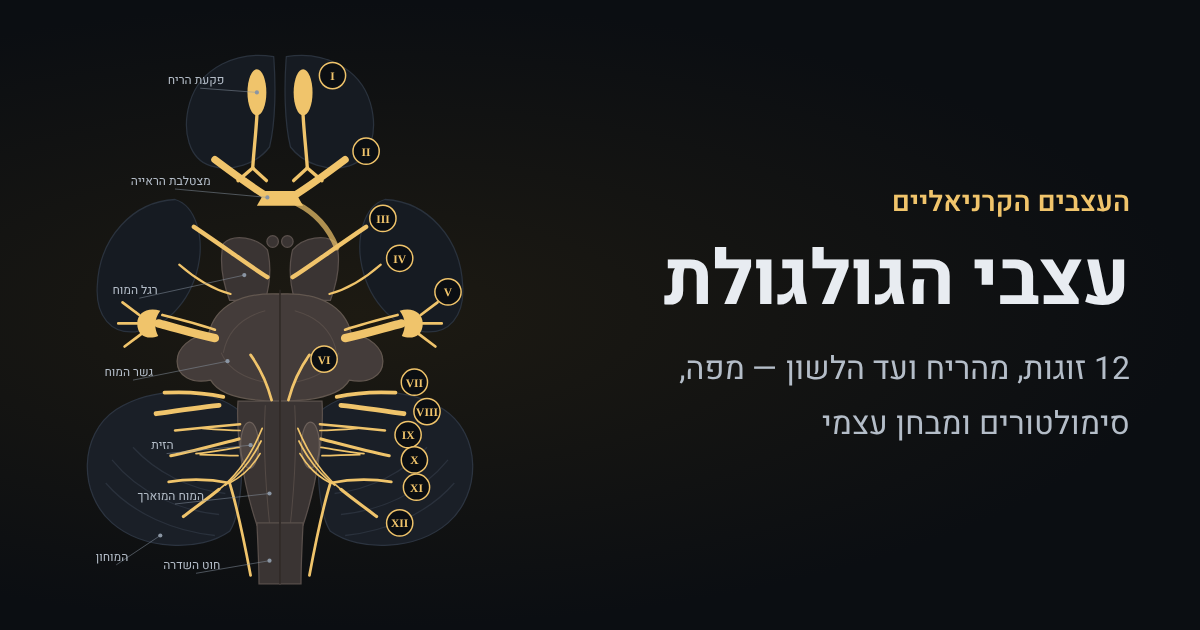
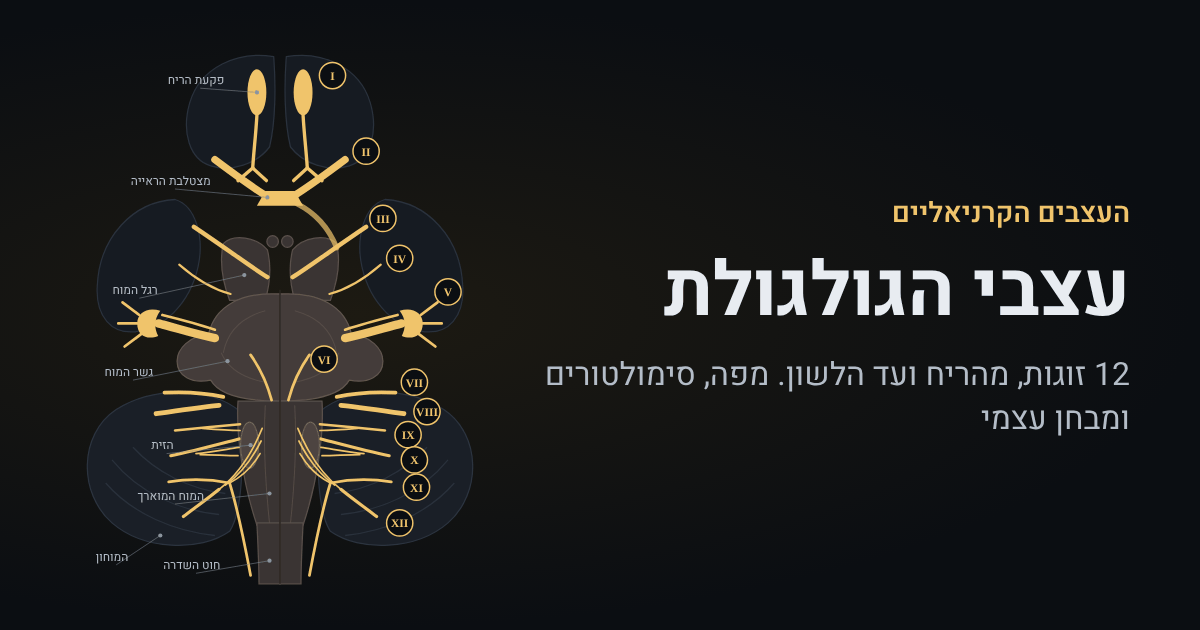
לפני פרסום: טקסט סטטי במעבדה, נתונים מובנים (JSON-LD), תמונת שיתוף לכל עצב; שם אחיד לעצב התת-לשוני
Claude-Session: https://claude.ai/code/session_01WMETiPbN26pKEWaQKbEibQ

Changed region(s): [[0.555, 0.3921, 0.9558, 0.5127], [0.4625, 0.573, 0.9558, 0.6937], [0.74, 0.3016, 0.9558, 0.3619]]

diff --git a/vite.config.js b/vite.config.js
@@ -21,8 +21,53 @@ function fill(html, open, inner) {
 const attr = (s) => String(s).replace(/&/g, '&amp;').replace(/"/g, '&quot;').replace(/</g, '&lt;');
 const pageUrl = (page) => `${SITE.url}${page === 'index' ? '' : `${page}.html`}`;
 
-// תגיות שיתוף ו-canonical לעמוד. תמונת השיתוף אחת לכל האתר (public/og.png).
-function metaTags({ page, title, description }) {
+// תגיות שיתוף, canonical ונתונים מובנים (JSON-LD) לעמוד. תמונת השיתוף: public/og.png,
+// ולעמודי העצבים תמונה משלהם (public/og/nerve-<id>.png, נוצרת ב-scripts/make-images.cjs).
+const CRUMB = {
+  nerves: ['העצבים'], 'nerve-zero': ['העצבים', 'עצב 0'], basics: ['היסודות'], exam: ['הבדיקה'],
+  history: ['היסטוריה'], about: ['אודות'], lab: ['המעבדה'], privacy: ['מדיניות פרטיות'], accessibility: ['הצהרת נגישות'],
+  ...Object.fromEntries(LAB.map((t) => [t.page, ['המעבדה', t.label]])),
+  ...Object.fromEntries(NERVES.map((n) => [`nerve-${n.id}`, ['העצבים', `${n.name} (${n.roman})`]])),
+};
+const CRUMB_PAGE = { 'העצבים': 'nerves', 'המעבדה': 'lab' };
+const WEBSITE = { '@type': 'WebSite', '@id': `${SITE.url}#website`, name: SITE.name, url: SITE.url, inLanguage: 'he' };
+const EDU_LEVEL = 'תיכון, סטודנטים למקצועות הבריאות';
+
+function jsonLd({ page, title, description, nerve }) {
+  if (page === '404') return '';
+  const url = pageUrl(page);
+  const name = title.split(' · ').slice(0, -1).join(' · ') || title;
+  const graph = [];
+  if (page === 'index') {
+    graph.push({ ...WEBSITE, description });
+  } else {
+    const labels = CRUMB[page] ?? [name];
+    graph.push({
+      '@type': 'BreadcrumbList', '@id': `${url}#breadcrumb`,
+      itemListElement: [{ name: SITE.name, url: SITE.url }, ...labels.map((l, i) => ({
+        name: l, url: i === labels.length - 1 ? url : pageUrl(CRUMB_PAGE[l] ?? page),
+      }))].map((it, i) => ({ '@type': 'ListItem', position: i + 1, name: it.name, item: it.url })),
+    });
+    const about = nerve
+      ? { '@type': 'AnatomicalStructure', name: nerve.en, alternateName: [nerve.latin, nerve.name] }
+      : page === 'nerve-zero' ? { '@type': 'AnatomicalStructure', name: 'Terminal nerve', alternateName: ['Nervus terminalis', 'Cranial nerve zero', 'העצב הטרמינלי'] }
+      : null;
+    const isLesson = !!about || page === 'basics' || page === 'exam' || page === 'history' || LAB.some((t) => t.page === page);
+    graph.push({
+      '@type': isLesson ? ['WebPage', 'LearningResource'] : 'WebPage',
+      '@id': url, url, name, description, inLanguage: 'he',
+      isPartOf: { '@id': WEBSITE['@id'] }, breadcrumb: { '@id': `${url}#breadcrumb` },
+      ...(isLesson ? { learningResourceType: LAB.some((t) => t.page === page) ? 'simulation' : 'lesson', educationalLevel: EDU_LEVEL, isAccessibleForFree: true } : {}),
+      ...(about ? { about } : {}),
+    });
+    graph.push(WEBSITE);
+  }
+  const json = JSON.stringify({ '@context': 'https://schema.org', '@graph': graph }).replace(/</g, '\\u003c');
+  return `<script type="application/ld+json">${json}</script>`;
+}
+
+function metaTags({ page, title, description, nerve }) {
+  const image = nerve ? `og/nerve-${nerve.id}.png` : page === 'nerve-zero' ? 'og/nerve-zero.png' : 'og.png';
   return [
     '<!--og-->',
     page === '404' ? '' : `<link rel="canonical" href="${pageUrl(page)}" />`,
@@ -32,10 +77,11 @@ function metaTags({ page, title, description }) {
     `<meta property="og:title" content="${attr(title)}" />`,
     `<meta property="og:description" content="${attr(description)}" />`,
     `<meta property="og:url" content="${pageUrl(page)}" />`,
-    `<meta property="og:image" content="${SITE.url}og.png" />`,
+    `<meta property="og:image" content="${SITE.url}${image}" />`,
     `<meta property="og:image:width" content="1200" />`,
     `<meta property="og:image:height" content="630" />`,
     `<meta name="twitter:card" content="summary_large_image" />`,
+    jsonLd({ page, title, description, nerve }),
     '<!--/og-->',
   ].filter(Boolean).join('\n    ');
 }
@@ -131,6 +177,9 @@ function staticPages() {
       page('history.html', (html) => fill(html, '<div id="timeline-root">', timeline(EVENTS)));
       page('basics.html', (html) => fill(html, '<div id="basics-atlas">', figure(IMAGES.base, 'pic-atlas')));
       page('about.html', (html) => fill(html, '<div id="credits-root">', creditsList(CREDITS)));
+      page('lab.html', (html) => fill(html, '<div class="grid grid-3 lab-grid" id="lab-grid">', LAB.map((t) => `<article class="card lab-card"><div class="card-body">`
+        + `<p class="lab-card-nerves" dir="ltr">${t.nerves}</p>`
+        + `<h2><a class="card-link" href="./${t.page}.html">${t.label}</a></h2><p>${t.text}</p></div></article>`).join('')));
       page('exam.html', (html) => fill(html, '<div id="exam-root" class="exam-list">', examList(NERVES)));
 
       // עמוד סטטי לכל עצב: עותק של nerve.html עם כותרת, תיאור ותוכן משלו
@@ -138,7 +187,7 @@ function staticPages() {
       for (const n of NERVES) {
         const title = `${n.name} (${n.roman}) · ${SITE.name}`;
         const description = `העצב הקרניאלי ה-${n.num}: ${n.tagline} ${n.intro[0]}`.slice(0, 158);
-        const og = metaTags({ page: `nerve-${n.id}`, title, description });
+        const og = metaTags({ page: `nerve-${n.id}`, title, description, nerve: n });
         let html = base
           .replace('<html lang="he" dir="rtl">', `<html lang="he" dir="rtl" data-nerve-id="${attr(n.id)}">`)
           .replace(/<title>.*?<\/title>/, `<title>${attr(title)}</title>`)

diff --git a/content/nerves.js b/content/nerves.js
@@ -630,7 +630,7 @@ export const NERVES = [
       options: [
         `עצב IX, הלשוני-לועי`,
         `עצב X, התועה`,
-        `עצב XII, תת-הלשוני`,
+        `עצב XII, התת-לשוני`,
         `עצב V, התלת-ראשי`,
       ],
       answer: 0,
@@ -700,7 +700,7 @@ export const NERVES = [
       options: [
         `העצב התועה השמאלי`,
         `העצב התועה הימני`,
-        `העצב תת-הלשוני השמאלי`,
+        `העצב התת-לשוני השמאלי`,
         `העצב הלשוני-לועי הימני`,
       ],
       answer: 1,
@@ -778,7 +778,7 @@ export const NERVES = [
     diagrams: [{ id: `tongue`, mode: `move` }],
     num: 12,
     roman: `XII`,
-    name: `העצב תת-הלשוני`,
+    name: `העצב התת-לשוני`,
     latin: `Nervus hypoglossus`,
     en: `Hypoglossal nerve`,
     type: `motor`,
@@ -795,9 +795,9 @@ export const NERVES = [
       `העצב יוצא מהמוח המוארך בשורה של סיבים דקים, בין הפירמידה לזית, ויוצא מהגולגולת דרך תעלה משלו. משם הוא יורד בצוואר, מתקדם קדימה מתחת ללסת ונכנס ללשון מלמטה, ומכאן שמו, "תת-לשוני".`,
     ],
     path: [
-      `גרעין העצב תת-הלשוני במוח המוארך`,
+      `גרעין העצב התת-לשוני במוח המוארך`,
       `יציאה בין הפירמידה לזית`,
-      `תעלת העצב תת-הלשוני`,
+      `תעלת העצב התת-לשוני`,
       `ירידה בצוואר, ומעבר קדימה מתחת ללסת`,
       `שרירי הלשון`,
     ],
@@ -811,7 +811,7 @@ export const NERVES = [
       tip: `כשהלשון יוצאת החוצה, כל צד שלה "דוחף" קדימה ומעט לצד הנגדי. אם צד אחד חלש, הצד הבריא דוחף לבד והלשון סוטה לכיוון הצד החלש.`,
     },
     lesion: {
-      text: `פגיעה בעצב תת-הלשוני בצד אחד גורמת לכך שהלשון סוטה לצד הפגוע כשמוציאים אותה. עם הזמן חצי הלשון בצד הפגוע מתדלדל ומתקמט.`,
+      text: `פגיעה בעצב התת-לשוני בצד אחד גורמת לכך שהלשון סוטה לצד הפגוע כשמוציאים אותה. עם הזמן חצי הלשון בצד הפגוע מתדלדל ומתקמט.`,
       signs: [
         `הלשון סוטה לצד הפגוע כשמוציאים אותה`,
         `דלדול של חצי הלשון`,
@@ -826,8 +826,8 @@ export const NERVES = [
     try: {
       q: `כשאדם מוציא לשון, היא סוטה ימינה. איזה עצב חלש?`,
       options: [
-        `העצב תת-הלשוני השמאלי`,
-        `העצב תת-הלשוני הימני`,
+        `העצב התת-לשוני השמאלי`,
+        `העצב התת-לשוני הימני`,
         `עצב הפנים הימני`,
         `העצב התועה השמאלי`,
       ],

diff --git a/lab-quiz.html b/lab-quiz.html
@@ -15,6 +15,14 @@
           <p class="lead">עשר שאלות מתחלפות על כל 12 העצבים. כל סבב מגריל שאלות חדשות.</p>
         </header>
         <div id="lab-root" class="lab-root"><noscript><p class="empty-state">הכלי הזה דורש JavaScript.</p></noscript></div>
+        <section class="section prose lab-about">
+          <h2>על המבחן</h2>
+          <p>בכל סבב עשר שאלות, שנבחרות מתוך מאגר על כל 12 זוגות העצבים הקרניאליים. יש שאלות על המספר של כל עצב, על הסוג שלו (תחושתי, תנועתי או מעורב), על המקום שבו הוא מתחבר למוח, על הפתח שדרכו הוא יוצא מהגולגולת ועל הבדיקה שלו, וגם שאלות "נסו קודם" מעמודי העצבים.</p>
+          <p>אחרי כל תשובה מופיע הסבר קצר, וקישור לעמוד של העצב. התשובות לא נשמרות ולא נשלחות לשום מקום.</p>
+          <p>העצבים שבמבחן, לפי הסדר:</p>
+          <ol class="quiz-nerve-list"><li><a href="./nerve-olfactory.html">עצב הריח (I)</a></li><li><a href="./nerve-optic.html">עצב הראייה (II)</a></li><li><a href="./nerve-oculomotor.html">העצב המניע את העין (III)</a></li><li><a href="./nerve-trochlear.html">עצב הגלגלת (IV)</a></li><li><a href="./nerve-trigeminal.html">העצב התלת-ראשי (V)</a></li><li><a href="./nerve-abducens.html">העצב המרחיק (VI)</a></li><li><a href="./nerve-facial.html">עצב הפנים (VII)</a></li><li><a href="./nerve-vestibulocochlear.html">עצב השמיעה ושיווי המשקל (VIII)</a></li><li><a href="./nerve-glossopharyngeal.html">העצב הלשוני-לועי (IX)</a></li><li><a href="./nerve-vagus.html">העצב התועה (X)</a></li><li><a href="./nerve-accessory.html">העצב הנלווה (XI)</a></li><li><a href="./nerve-hypoglossal.html">העצב התת-לשוני (XII)</a></li></ol>
+          <p>לפני המבחן אפשר לעבור על <a href="./basics.html">היסודות</a> ועל <a href="./nerves.html">רשימת העצבים</a>.</p>
+        </section>
         <!-- @labpager -->
       </div>
     </main>

diff --git a/lab-eyes.html b/lab-eyes.html
@@ -15,6 +15,12 @@
           <p class="lead">שישה שרירים בכל עין, שלושה עצבים. הזיזו את המטרה, והעיניים יעקבו אחריה. אחר כך "השביתו" עצב אחד ובדקו מה משתבש.</p>
         </header>
         <div id="lab-root" class="lab-root"><noscript><p class="empty-state">הכלי הזה דורש JavaScript.</p></noscript></div>
+        <section class="section prose lab-about">
+          <h2>מה הסימולטור מראה</h2>
+          <p>בכל עין שישה שרירים, ושלושה עצבים מפעילים אותם. הישר הצדדי, שמפנה את העין החוצה, מקבל פקודות מהעצב השישי (VI). האלכסוני העליון מקבל פקודות מהעצב הרביעי (IV). ארבעת השרירים האחרים, וגם השריר שמרים את העפעף, מקבלים פקודות מהעצב השלישי (III). משפט הזיכרון: LR6 SO4 R3.</p>
+          <p>כשעצב אחד חלש, העין לא מצליחה לפנות לכיוון שהשריר שלו אחראי עליו, ושתי העיניים כבר לא מסתכלות על אותה נקודה. התוצאה היא ראייה כפולה, שמחמירה כשמסתכלים לכיוון של השריר החלש. לפי הכיוון שבו הראייה הכפולה הכי גרועה, אפשר לנחש איזה עצב נפגע.</p>
+          <p>פגיעה מלאה בעצב השלישי נראית אופיינית: העין פונה למטה ולחוץ, העפעף צנוח והאישון רחב. רק שני שרירים נשארים פעילים, הישר הצדדי (VI) והאלכסוני העליון (IV), והם מושכים את העין לכיוונם.</p>
+        </section>
         <section class="section prose">
           <h2>מה כדאי לנסות</h2>
           <ul>

diff --git a/lab-pupils.html b/lab-pupils.html
@@ -15,6 +15,12 @@
           <p class="lead">האירו בפנס לעין אחת: שני האישונים מתכווצים. העצב השני מביא את האור למוח, והעצב השלישי מכווץ את האישון בשני הצדדים.</p>
         </header>
         <div id="lab-root" class="lab-root"><noscript><p class="empty-state">הכלי הזה דורש JavaScript.</p></noscript></div>
+        <section class="section prose lab-about">
+          <h2>מה הסימולטור מראה</h2>
+          <p>רפלקס האישון לאור עובר בשני עצבים. עצב הראייה (II) מביא את המידע על האור אל גזע המוח, והעצב השלישי (III) מחזיר פקודה לשריר שמכווץ את האישון. המידע עובר במוח לשני הצדדים, ולכן אור בעין אחת מכווץ את שני האישונים.</p>
+          <p>מכאן אפשר להבחין בין שתי פגיעות שונות. כשעצב הראייה נפגע, העין הפגועה פחות "מדווחת" על אור, אבל שני האישונים עדיין מגיבים כשמאירים לעין הבריאה. כשהעצב השלישי נפגע, האישון באותו צד רחב ולא מגיב, לא משנה לאיזו עין מאירים.</p>
+          <p>בבדיקת "הפנס המתנדנד" מזיזים את הפנס מעין לעין. אם עצב הראייה בצד אחד חלש, ברגע שהפנס עובר אל העין הפגועה שני האישונים מתרחבים. זה "פגם אפרנטי יחסי", אחד הסימנים החשובים בבדיקת העיניים.</p>
+        </section>
         <section class="section prose">
           <h2>מה כדאי לנסות</h2>
           <ul>

diff --git a/lab-visual.html b/lab-visual.html
@@ -15,6 +15,11 @@
           <p class="lead">כל חצי מוח רואה את החצי הנגדי של העולם, משתי העיניים. בחרו נקודה במסלול ובדקו מה נעלם משדה הראייה.</p>
         </header>
         <div id="lab-root" class="lab-root"><noscript><p class="empty-state">הכלי הזה דורש JavaScript.</p></noscript></div>
+        <section class="section prose lab-about">
+          <h2>מה הסימולטור מראה</h2>
+          <p>שני עצבי הראייה נפגשים במצטלבת הראייה (optic chiasm). שם הסיבים מהחצי הפנימי של כל רשתית, הקרוב לאף, עוברים לצד השני, והסיבים מהחצי החיצוני נשארים באותו צד. כך כל חצי מוח מקבל את החצי הנגדי של העולם, משתי העיניים.</p>
+          <p>לכן מיקום הפגיעה קובע מה נעלם. פגיעה בעצב הראייה לפני המצטלבת פוגעת בעין אחת בלבד. פגיעה במצטלבת עצמה מוחקת את שני החצאים החיצוניים של שדה הראייה ("משקפי סוס"), ולעיתים הסיבה היא גידול שפיר של בלוטת יותרת המוח, שיושבת ממש מתחתיה. פגיעה מאחורי המצטלבת מוחקת את אותו חצי של שדה הראייה בשתי העיניים, בצד הנגדי לפגיעה.</p>
+        </section>
         <section class="section prose">
           <h2>איך לקרוא את המפות</h2>
           <ul>

diff --git a/lab-skull.html b/lab-skull.html
@@ -15,6 +15,11 @@
           <p class="lead">מבט מלמעלה על רצפת הגולגולת, אחרי שהמוח הוסר. לחצו על פתח כדי לראות מה עובר בו, או בחרו עצב כדי למצוא את הפתח שלו.</p>
         </header>
         <div id="lab-root" class="lab-root"><noscript><p class="empty-state">הכלי הזה דורש JavaScript.</p></noscript></div>
+        <section class="section prose lab-about">
+          <h2>מה הסימולטור מראה</h2>
+          <p>אחרי שמוציאים את המוח, רצפת הגולגולת נראית כמו שלוש מדרגות. בגומה הקדמית מונחות האונות המצחיות, בגומה האמצעית יושבות האונות הרקתיות, ובגומה האחורית נמצאים גזע המוח והמוחון. העצבים הקרניאליים יוצאים מהגולגולת דרך פתחים ברצפה הזו.</p>
+          <p>חלק מהפתחים משותפים לכמה עצבים, ולכן תהליך אחד באזור של פתח יכול לפגוע בכמה עצבים בבת אחת. עצבי העיניים עוברים יחד בסדק העליון של ארובת העין, עצב הפנים ועצב השמיעה נכנסים יחד לפתח השמע הפנימי, והעצבים IX, X ו-XI יוצאים יחד בחור הצווארי.</p>
+        </section>
         <section class="section prose">
           <h2>כדאי לדעת</h2>
           <ul>

diff --git a/lab-face.html b/lab-face.html
@@ -15,6 +15,11 @@
           <p class="lead">בקשו מהפנים להרים גבות, לעצום עיניים חזק או לחייך. אחר כך בחרו פגיעה בעצב עצמו או במוח, ובדקו מה קורה למצח.</p>
         </header>
         <div id="lab-root" class="lab-root"><noscript><p class="empty-state">הכלי הזה דורש JavaScript.</p></noscript></div>
+        <section class="section prose lab-about">
+          <h2>מה הסימולטור מראה</h2>
+          <p>עצב הפנים (VII) מפעיל את שרירי ההבעה. הפקודות אליו יוצאות מקליפת המוח ומגיעות לגרעין שלו בגזע המוח. החלק בגרעין שמפעיל את המצח מקבל פקודות משני צדי המוח, והחלק שמפעיל את החלק התחתון של הפנים מקבל פקודות בעיקר מהצד הנגדי.</p>
+          <p>לכן המצח עוזר להבחין בין שתי פגיעות. בשבץ בצד אחד של המוח, הצד השני עדיין מפעיל את המצח, ורק החלק התחתון של הפנים חלש, בצד הנגדי לפגיעה. כשהעצב עצמו נפגע, כמו בשיתוק בל, הפקודה לא עוברת בכלל, וכל חצי הפנים חלש, כולל המצח.</p>
+        </section>
         <section class="section prose">
           <h2>הכלל שכדאי לזכור</h2>
           <ul>

diff --git a/lab.html b/lab.html
@@ -15,6 +15,11 @@
           <p class="lead">כאן מותר לקלקל. משביתים עצב ורואים מה קורה. כך רופאים לומדים לזהות איפה הבעיה לפי מה שהם רואים אצל המטופל.</p>
         </header>
         <div class="grid grid-3 lab-grid" id="lab-grid"></div>
+        <section class="section prose lab-about">
+          <h2>למה סימולטורים</h2>
+          <p>כשעצב קרניאלי נפגע, הסימנים תלויים במקום הפגיעה: בעצב עצמו, בגרעין שלו בגזע המוח, או במוח שמעליו. ההבדלים האלה קשים להבנה מטקסט בלבד, וקל יותר לראות אותם. בכל כלי במעבדה אפשר "להשבית" חלק במערכת ולראות מה משתנה: בתנועות העיניים, באישונים, בשדה הראייה ובהבעות הפנים.</p>
+          <p>הסימולטורים מפשטים את המציאות, ומתחת לכל אחד כתוב מה הוא מפשט. הם נועדו ללימוד בלבד, ולא לאבחון.</p>
+        </section>
       </div>
     </main>
     <!-- @footer -->

diff --git a/content/foramina.js b/content/foramina.js
@@ -47,7 +47,7 @@ export const FORAMINA = [
     text: `פתח גדול ולא סדיר. שלושה עצבים עוברים בו יחד, ולכן בעיה במקום הזה פוגעת בדרך כלל בשלושתם.`,
   },
   {
-    id: `hypoglossal`, name: `תעלת העצב תת-הלשוני`, en: `Hypoglossal canal`, bone: `עצם העורף`, fossa: `posterior`,
+    id: `hypoglossal`, name: `תעלת העצב התת-לשוני`, en: `Hypoglossal canal`, bone: `עצם העורף`, fossa: `posterior`,
     nerves: [`hypoglossal`], other: [],
     text: `תעלה קצרה מעל הפרקים שבהם הגולגולת נשענת על החוליה הראשונה.`,
   },

diff --git a/src/lib/diagrams.js b/src/lib/diagrams.js
@@ -101,7 +101,7 @@ const TONGUE_NERVES = {
   VII: { roman: 'VII', name: 'עצב הפנים (דרך עצב מיתר התוף)', c: '#c3a6f0' },
   IX: { roman: 'IX', name: 'העצב הלשוני-לועי', c: '#7fcf9b' },
   X: { roman: 'X', name: 'העצב התועה', c: '#ef9a8f' },
-  XII: { roman: 'XII', name: 'העצב תת-הלשוני', c: '#f0c46b' },
+  XII: { roman: 'XII', name: 'העצב התת-לשוני', c: '#f0c46b' },
 };
 // מי אחראי על כל אזור בכל מצב: front — שני השלישים הקדמיים, back — השליש האחורי, root — בסיס הלשון והמכסה של הגרון
 const TONGUE_MODES = {

diff --git a/src/styles/main.css b/src/styles/main.css
@@ -1646,3 +1646,5 @@ html.a11y-still .sister-clone { display: none; }
 .paper-kind { display: inline-block; padding: 0.05rem 0.5rem; margin-inline-end: 0.35rem; border-radius: 999px; background: rgba(240, 196, 107, 0.12); color: var(--accent); font-size: 0.75rem; }
 .paper-note { margin-top: 0.75rem; font-size: 0.8rem; }
 .report-error { margin: 1.5rem 0 0; font-size: 0.875rem; text-align: center; }
+.quiz-nerve-list { columns: 2; }
+@media (max-width: 560px) { .quiz-nerve-list { columns: 1; } }
